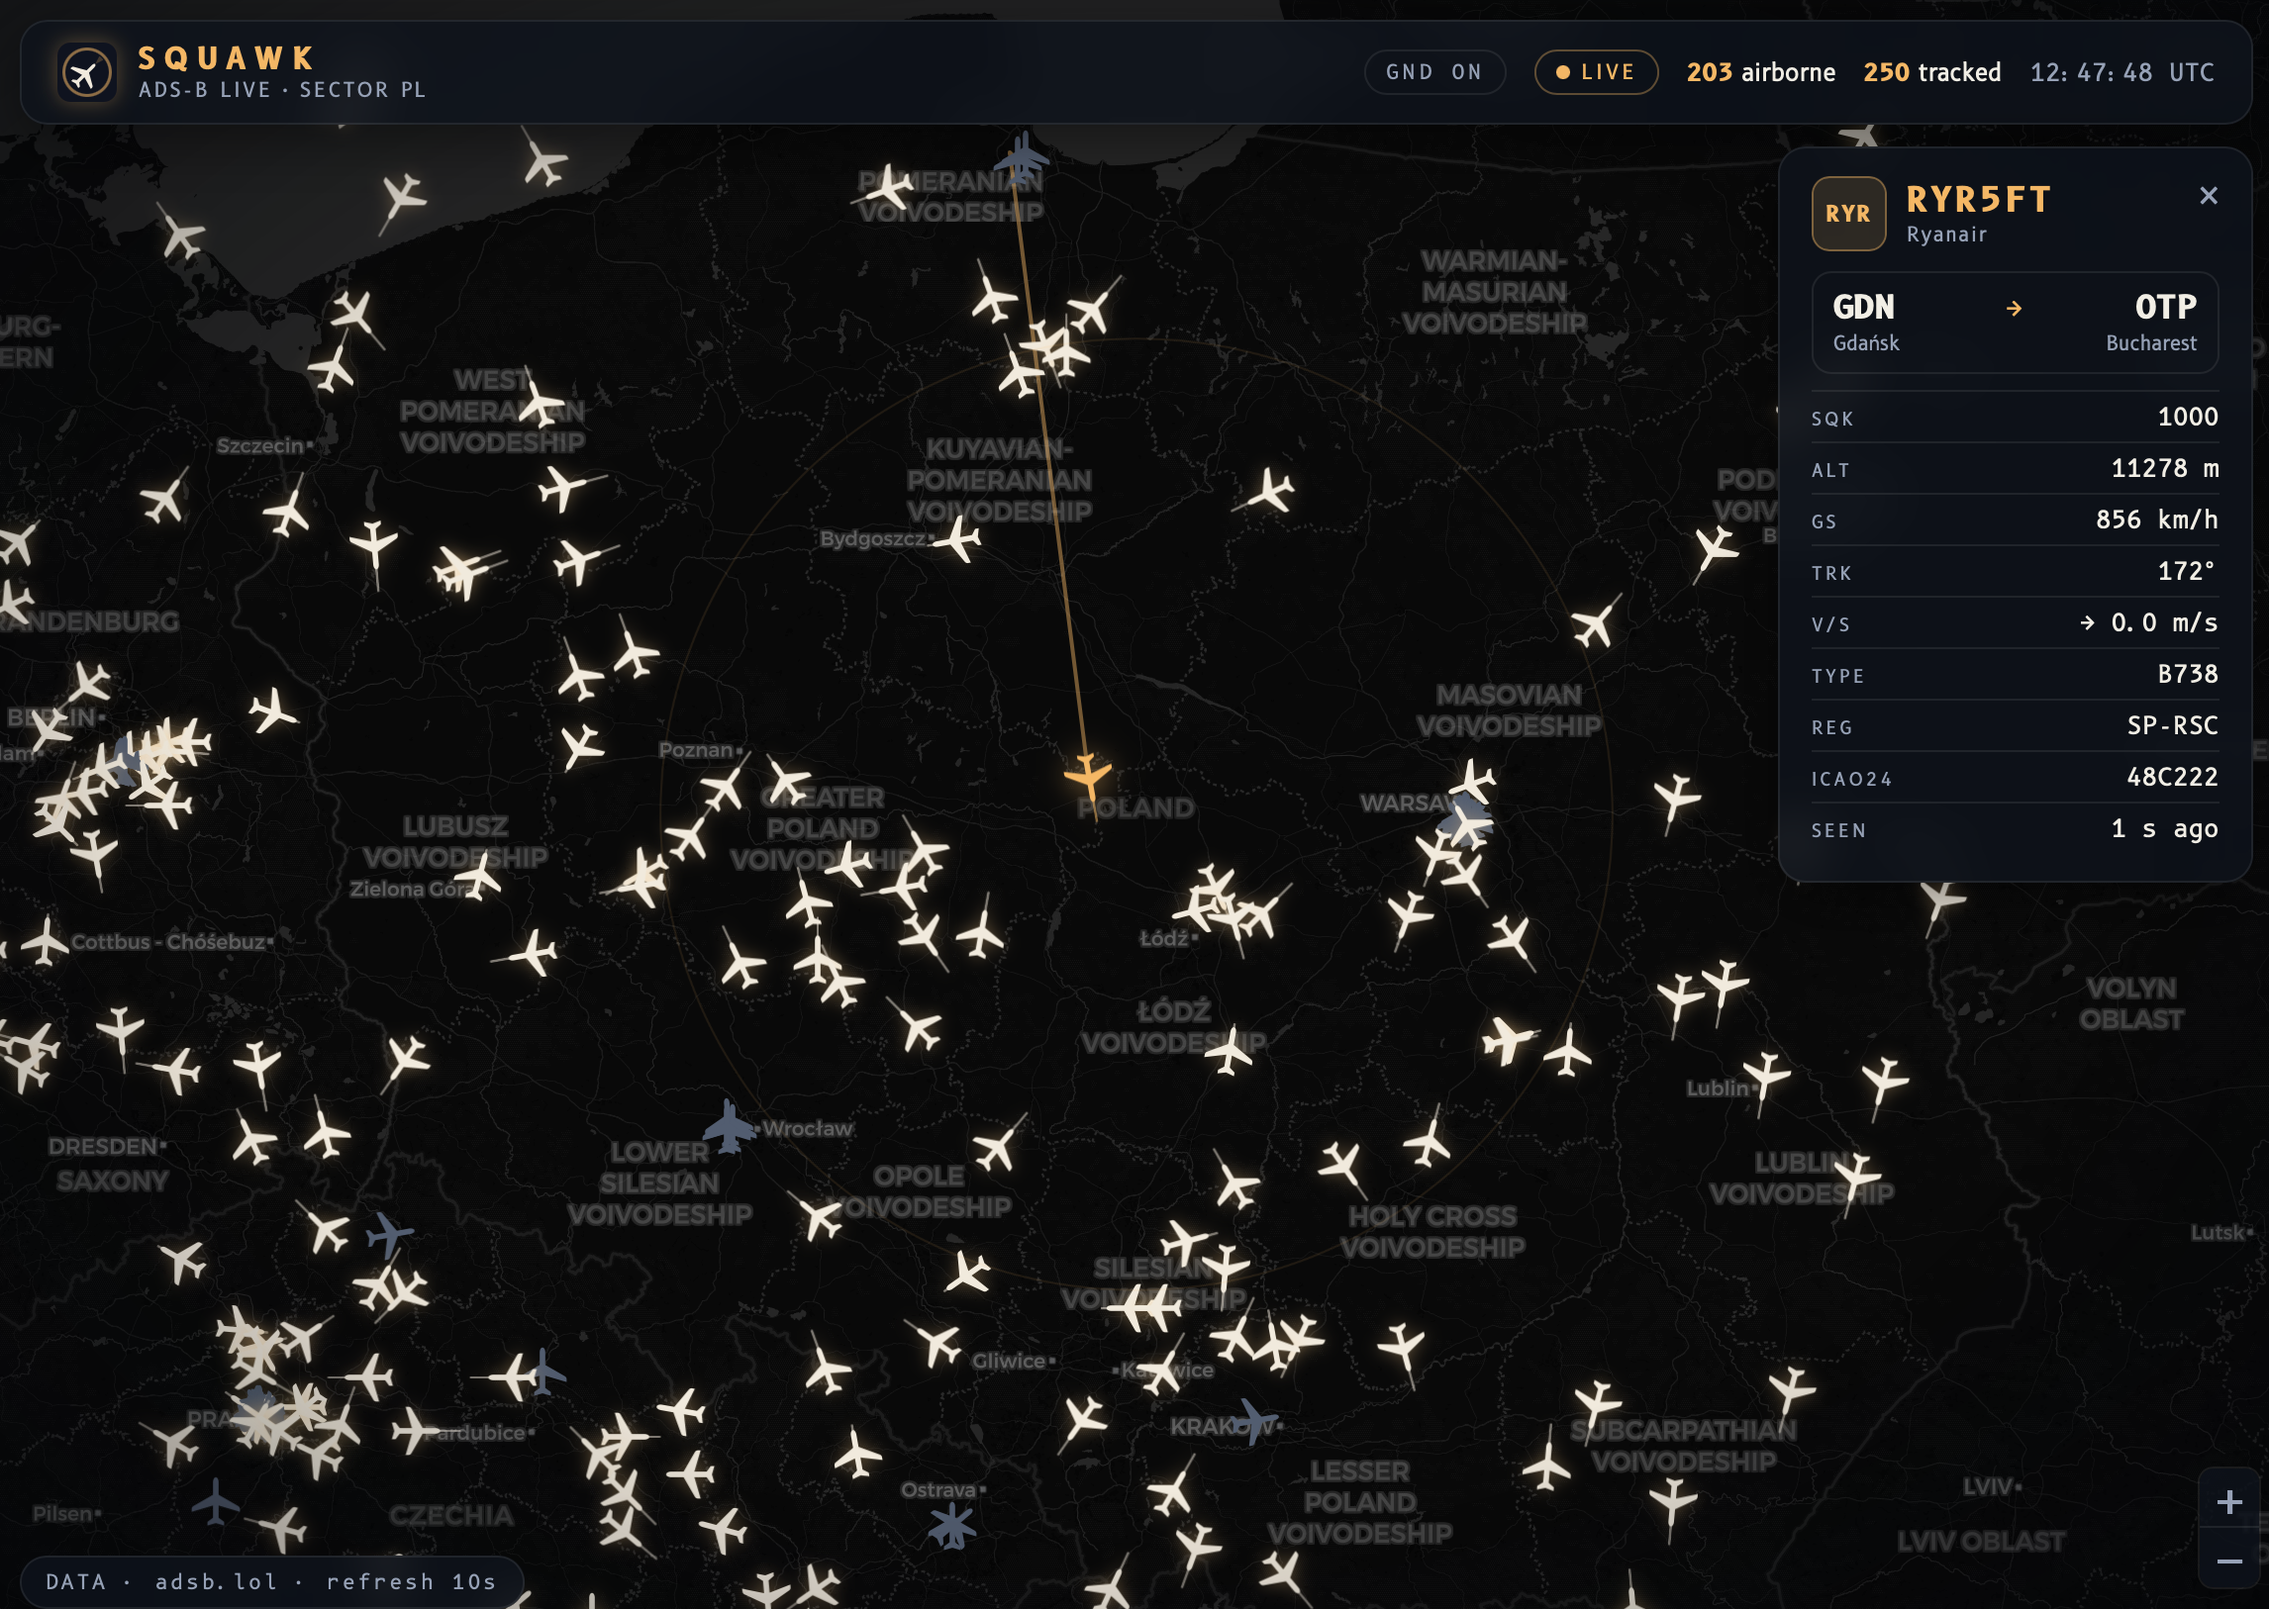
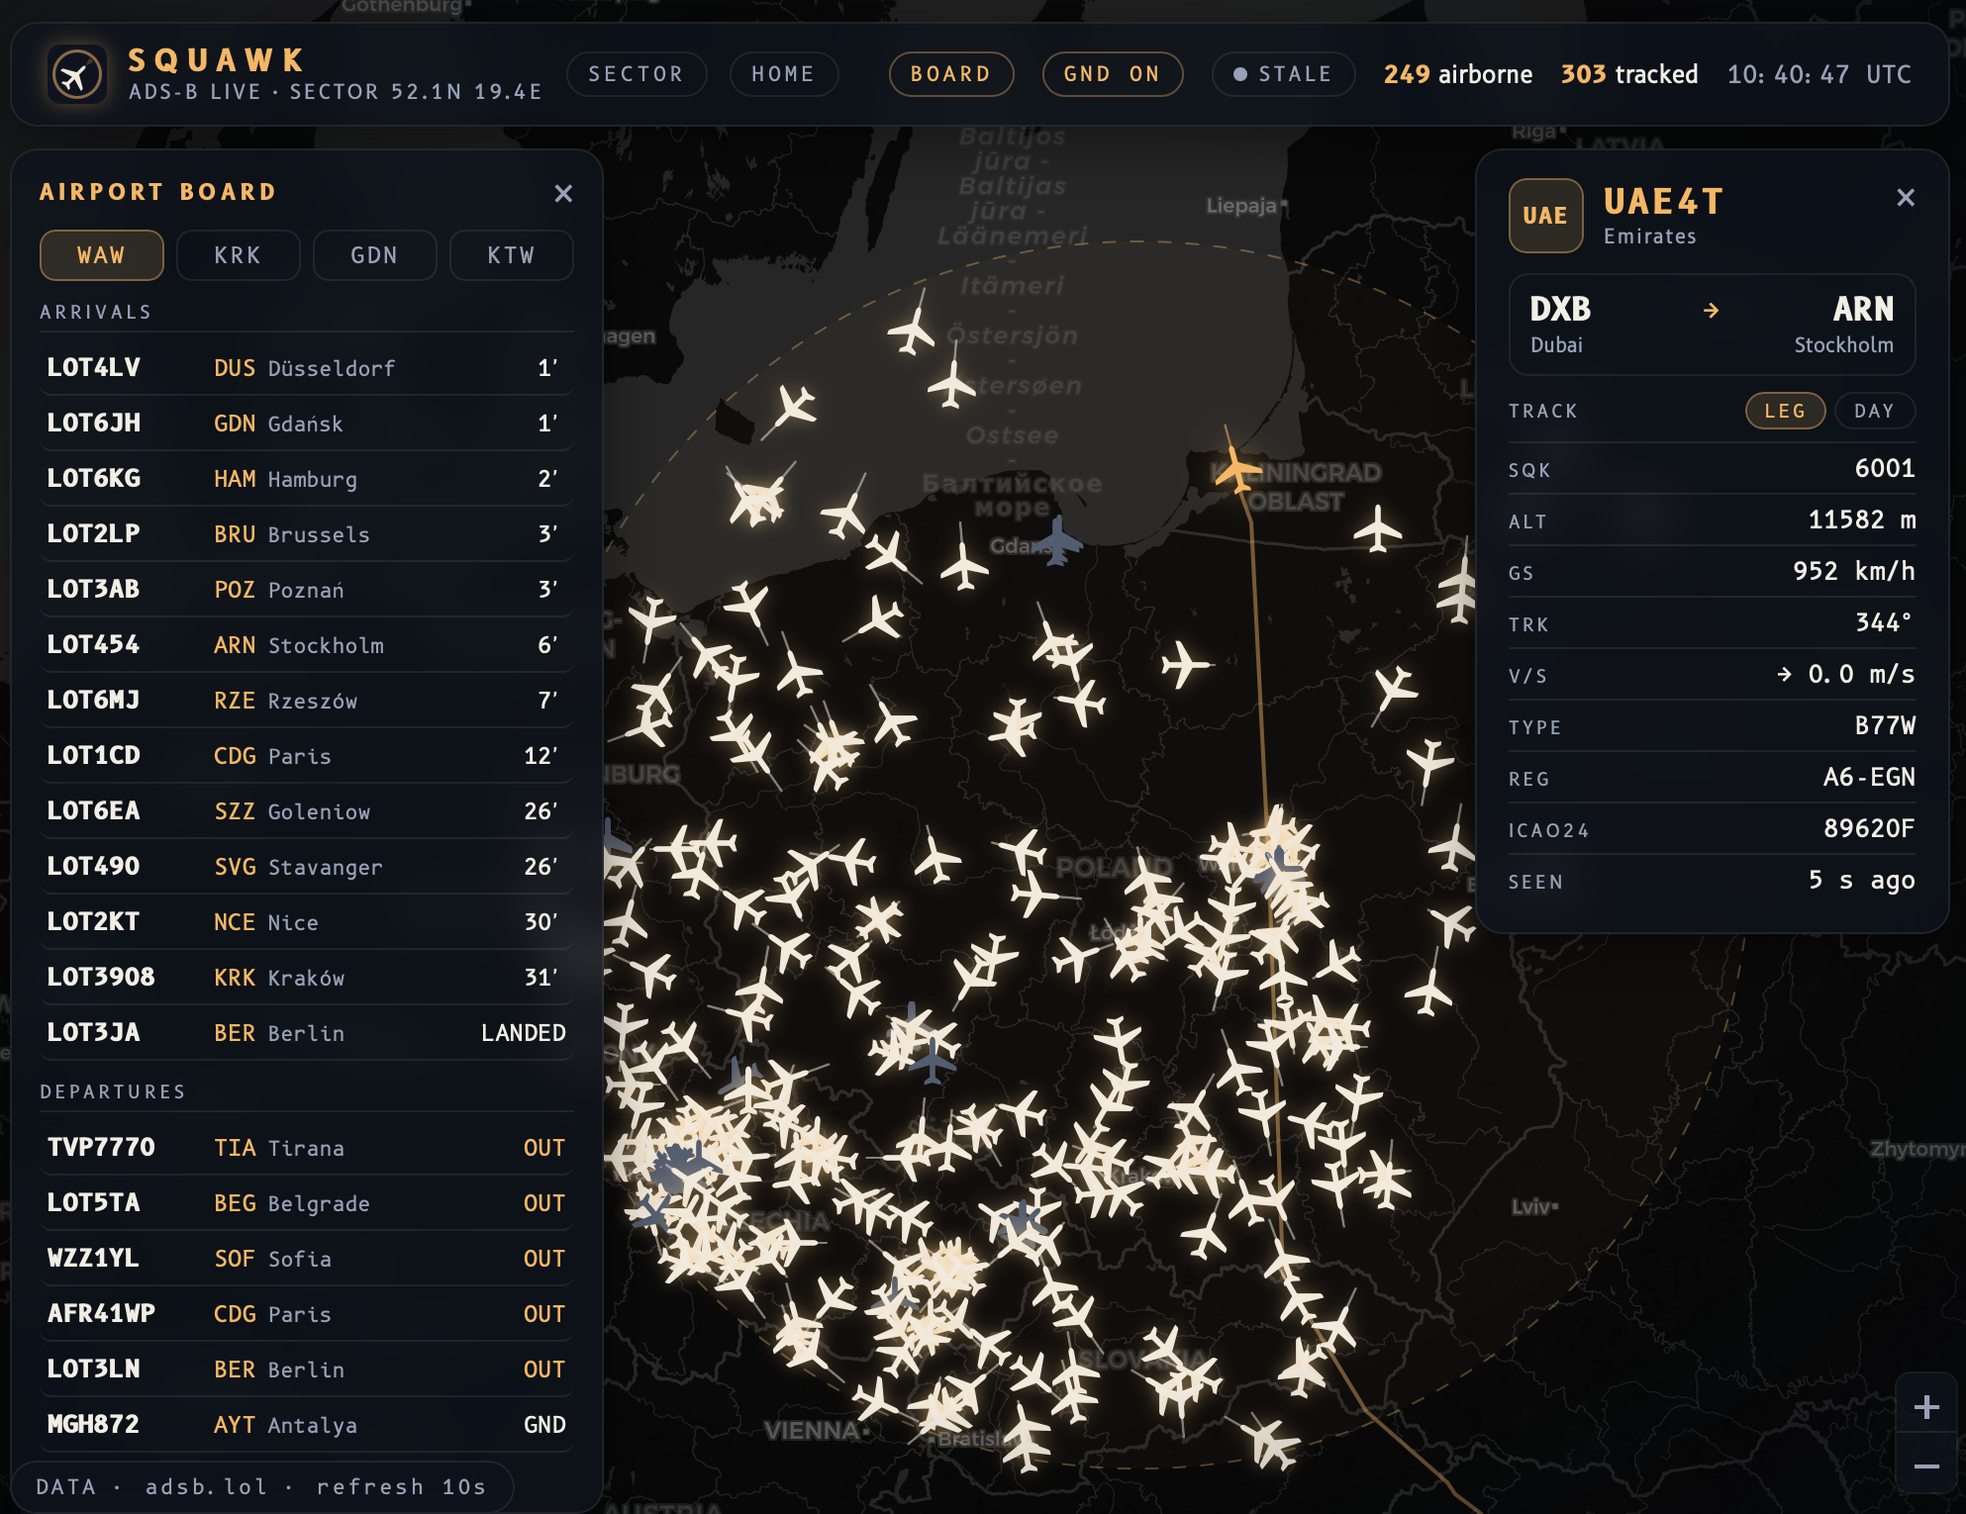
readme update

diff --git a/README.md b/README.md
@@ -6,7 +6,7 @@ Live ADS-B mini-radar. A FastAPI backend fetches and caches aircraft positions f
 
 **Live demo - [squawk-inky.vercel.app](https://squawk-inky.vercel.app)** Hosted on free tiers — the backend may take ~30–60 s to wake up on the first visit.
 
-![Squawk radar](docs/radar.png)
+![Squawk radar](docs/radar_old.png)
 
 ## Features
 
